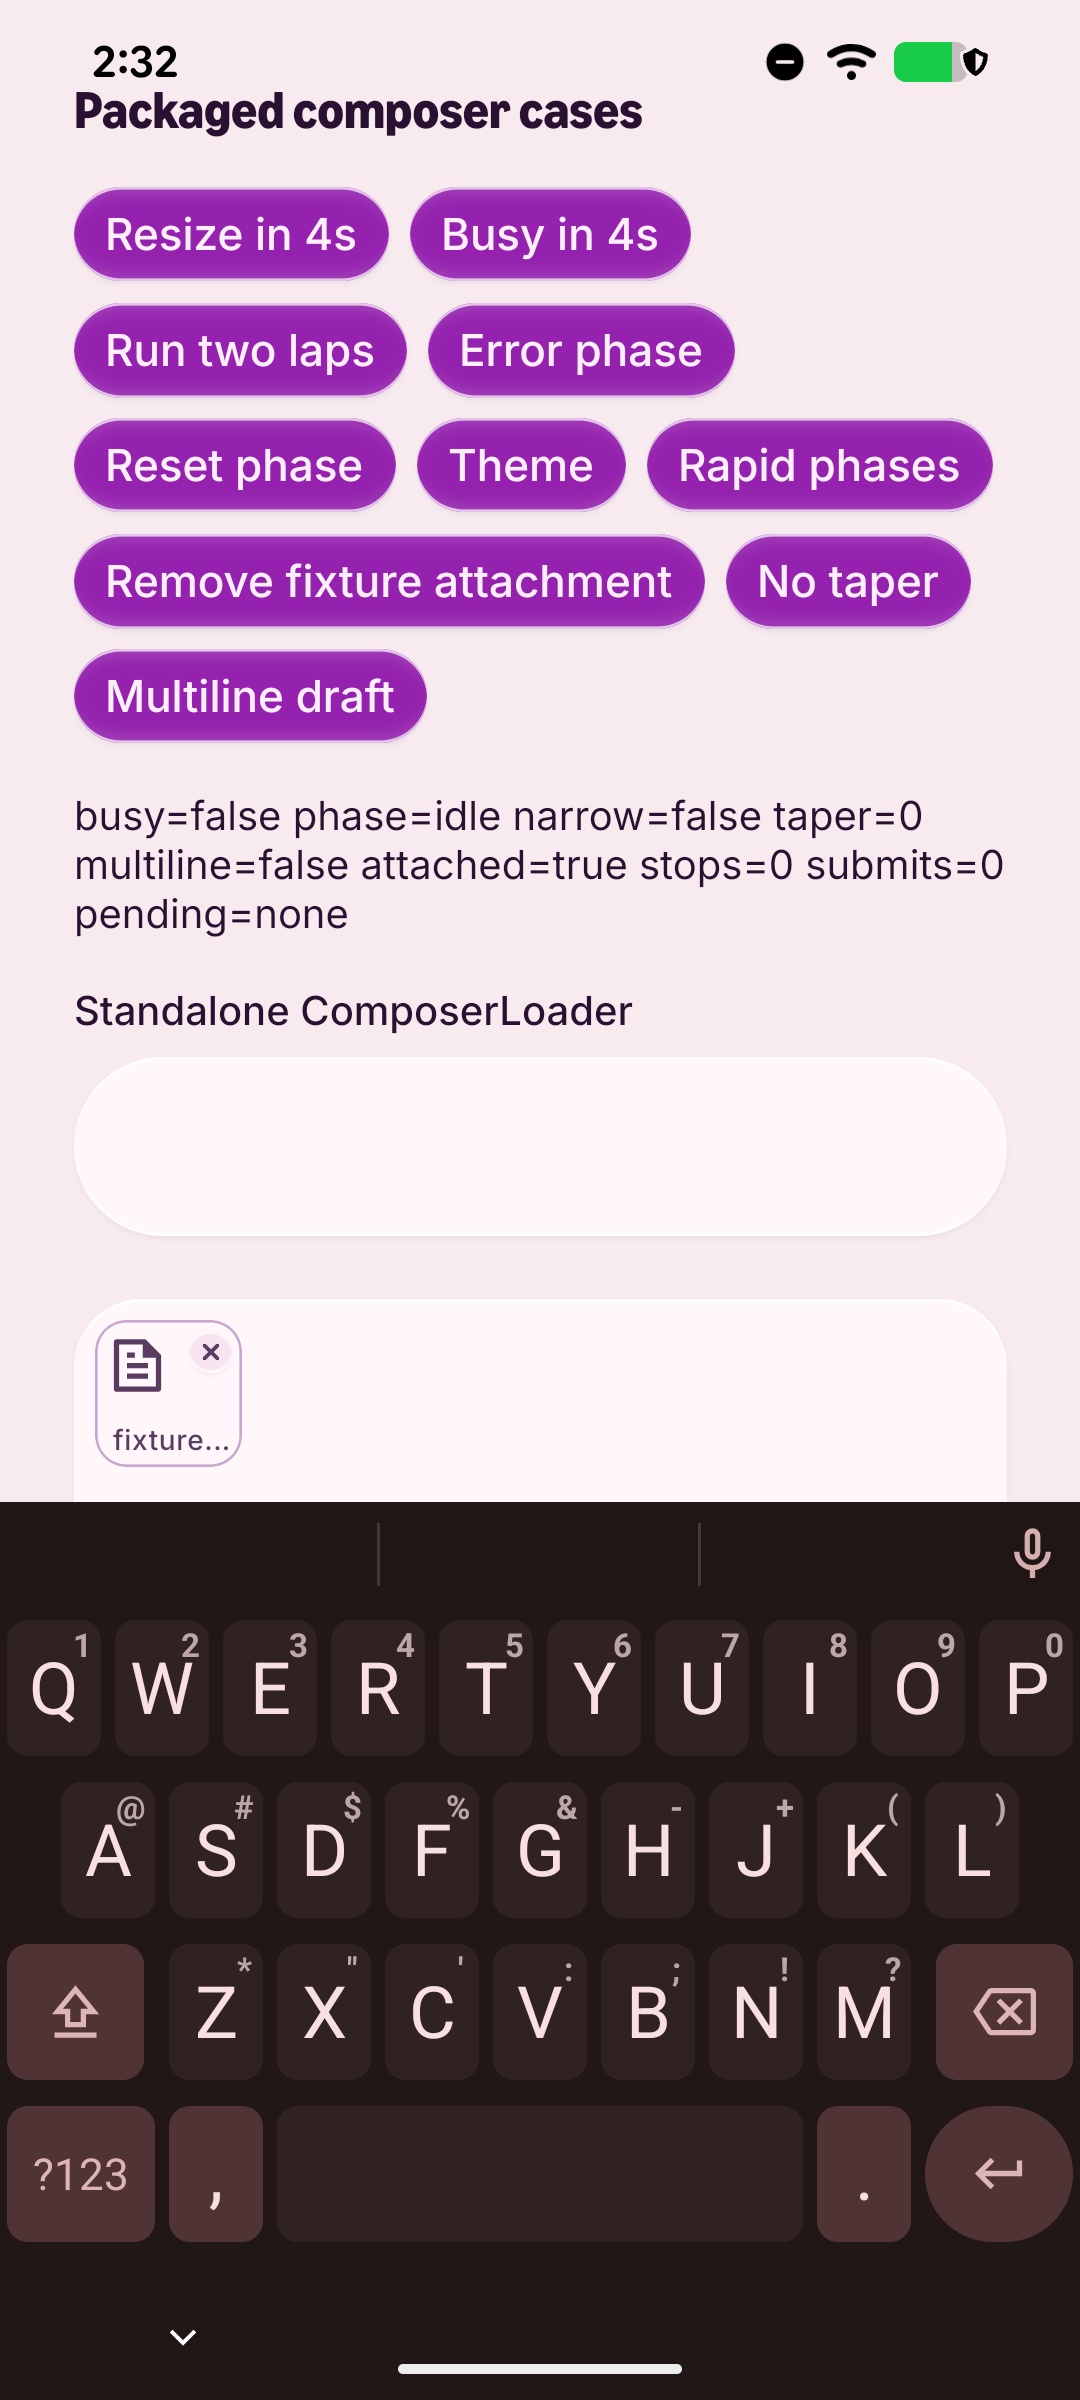
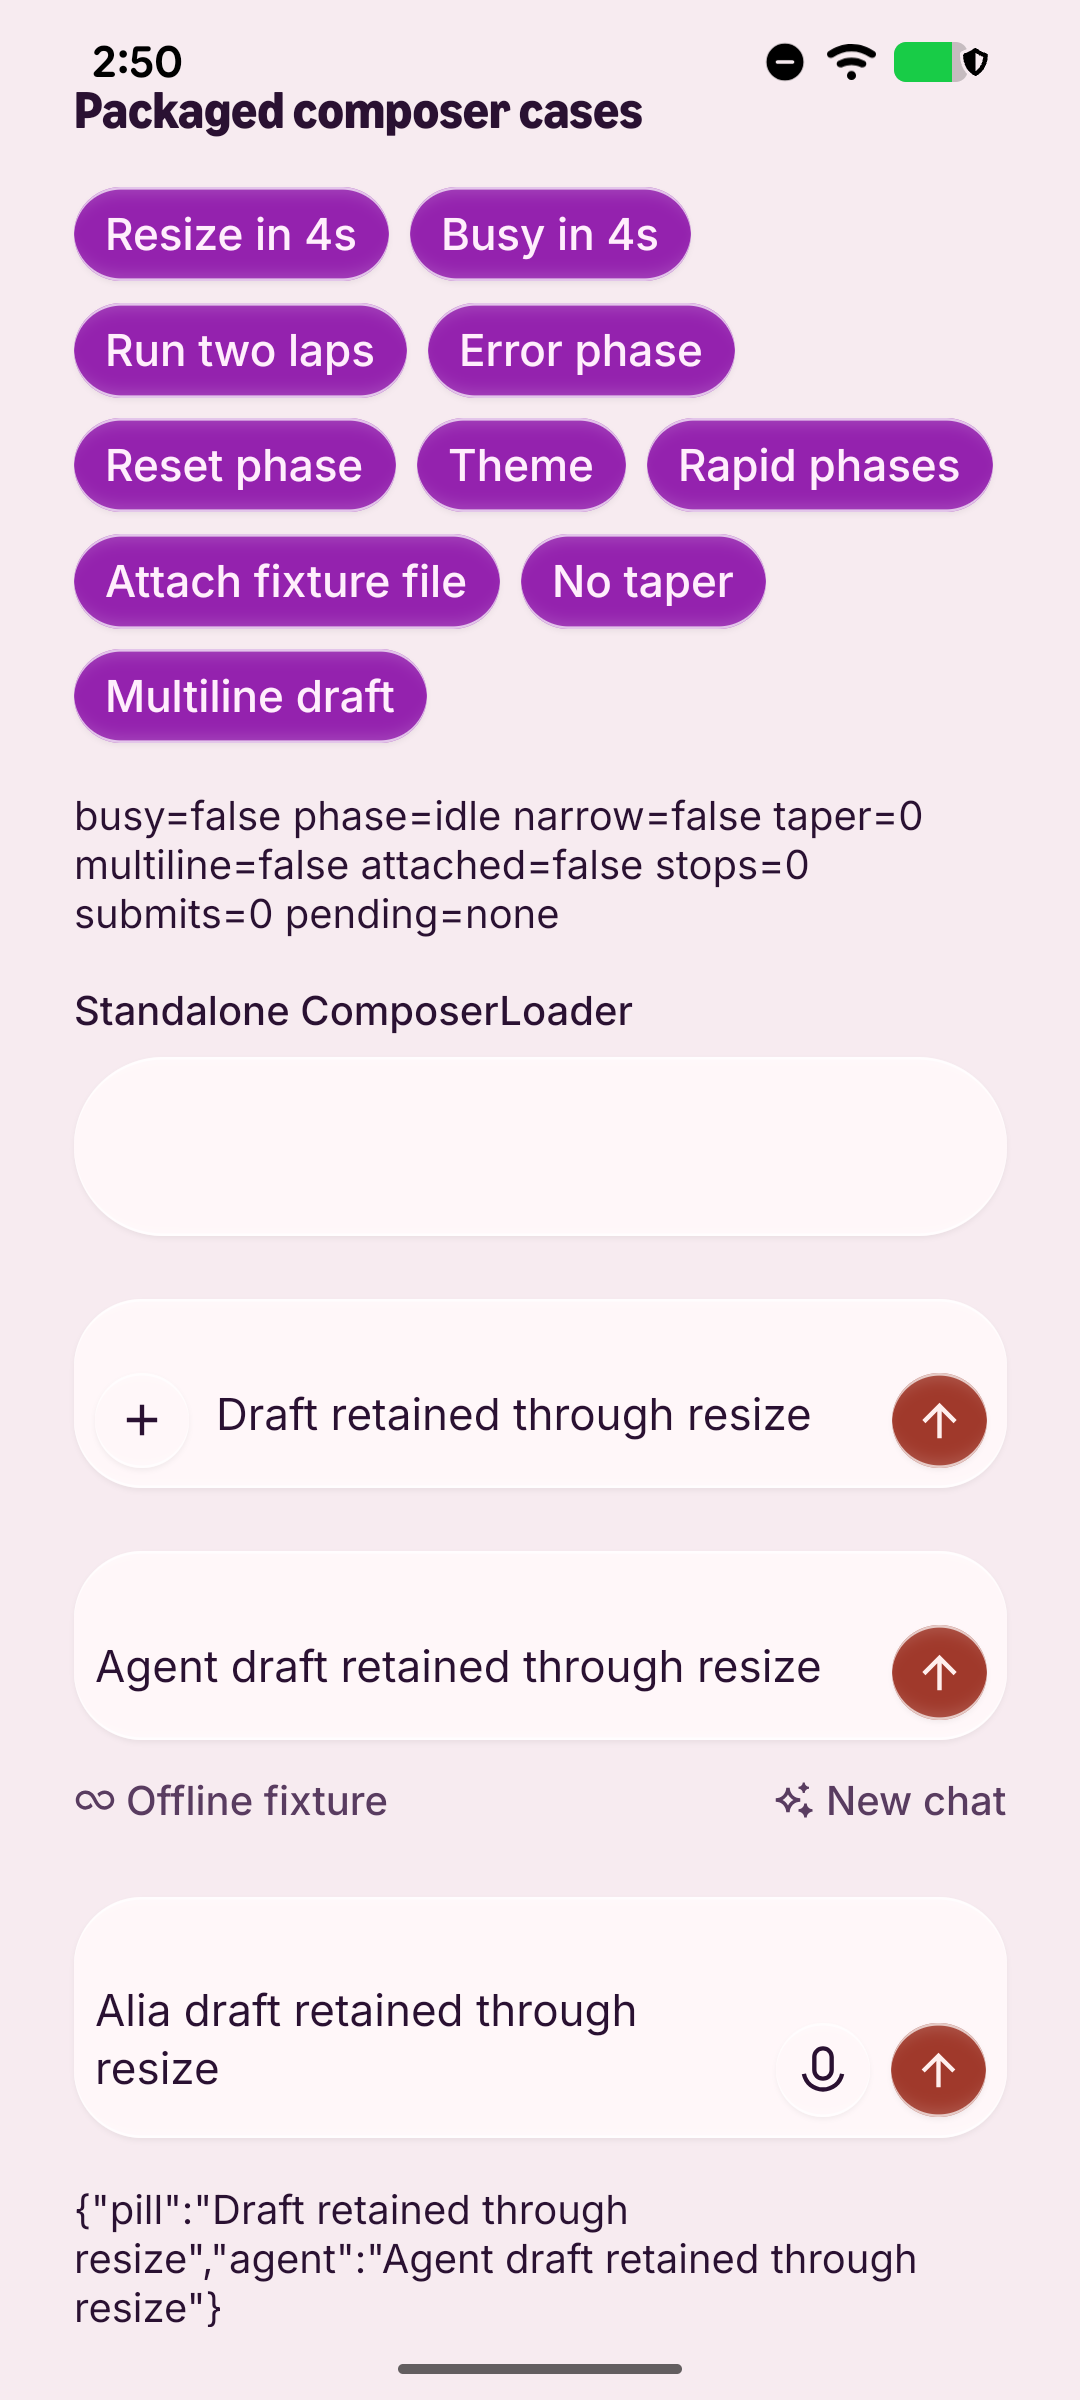
docs: refine Pixel 8a composer interaction evidence

diff --git a/scripts/loader-package-lab/ComposerCases.tsx b/scripts/loader-package-lab/ComposerCases.tsx
@@ -174,10 +174,7 @@ export function ComposerCases({ onToggleMode }: { onToggleMode: () => void }) {
             >
               Rapid phases
             </Button>
-            <Button
-              testID="cases-attachment"
-              onPress={() => setAttached((value) => !value)}
-            >
+            <Button testID="cases-attachment" onPress={() => setAttached((value) => !value)}>
               {attached ? 'Remove fixture attachment' : 'Attach fixture file'}
             </Button>
             <Button

diff --git a/docs/audits/issue-663/composer-loader-published-18.4.0-pixel8a-interactions-2026-11-10/README.md b/docs/audits/issue-663/composer-loader-published-18.4.0-pixel8a-interactions-2026-11-10/README.md
@@ -2,6 +2,6 @@
 
 Date: 2026-11-10. Package: published `@oxy.so/bloom@18.4.0`, verified against npm integrity `sha512-XLC+0q97VKQVnxzjJ57ZdSRV8JXX2S4IC/pbYqpNvHHR5yTht/FBOApdhD4FwlnVA07lmsPXoI/3dLXZtePGoA==`. `attestation.json` binds the release APK to the installed package sources and native DEX marker. The isolated package lab APK denies network access. Device: Pixel 8a, serial `43221JEKB12200`, Android API 36, ARM64, 1080×2400.
 
-The fixture used real Bloom `ComposerPill`, `AgentChatComposer`, and the published composer add menu. `attachment.png` shows the fixture document tile in the composer after a physical tap. `add-menu-open.png` shows the native add menu open over the composer; selecting its row from an empty attachment state dismissed it and changed the fixture to `attached=true` (`add-menu-open.xml`, `add-menu-selected.xml`). The final APK's later menu capture shows the sheet over a dark/blank backing even though the menu row and callback remain in UIAutomator and a prior capture showed the composer behind the sheet; both observations are retained for investigation. `dark-theme-with-attachment.png` shows a live light-to-dark theme change with a multiline draft and attachment retained. `theme-keyboard-with-selection.png` and `input-probe.log` show the theme switch while Gboard was visible and the complete draft selected; native input identity, text, focus and selection `[0,29]` were unchanged after the switch. A rapid-phase tap reached streaming/Stop and returned to idle. `rapid-phase-streaming-stop.png` and `rapid-phase-idle-keyboard.png` are valid consecutive frames from the final APK. They are interaction observations, not performance measurements. Exact results and limits are in `interaction-results.json`.
+The fixture used real Bloom `ComposerPill`, `AgentChatComposer`, and the published composer add menu. `attachment.png` shows the fixture document tile in the composer after a physical tap. `add-menu-open.png` shows the native add menu open over the composer; selecting its row from an empty attachment state dismissed it and changed the fixture to `attached=true` (`add-menu-open.xml`, `add-menu-selected.xml`). The final APK menu capture shows the sheet over the dimmed composer background. Selecting its row from an empty attachment state dismissed the sheet and changed the fixture to `attached=true`. `dark-theme-with-attachment.png` shows a live light-to-dark theme change with a multiline draft and attachment retained. `theme-keyboard-with-selection.png` and `input-probe.log` show the theme switch while Gboard was visible and the complete draft selected; native input identity, text, focus and selection `[0,29]` were unchanged after the switch. A rapid-phase tap was captured immediately at `streaming` with `busy=true` and Stop controls visible; the next capture was already `idle`. The intermediate phases were not captured in this pass. Keyboard-visible captures scroll the containing Screen to the composer, moving upper fixture controls out of view. They are interaction observations, not performance measurements. Exact results and limits are in `interaction-results.json`.
 
-The prior published-package run remains the full automated evidence for draft, focus/caret, resize, busy/Stop, typing after Stop and rotation with the keyboard visible: [composer-loader-published-18.4.0-pixel8a-2026-11-10](../composer-loader-published-18.4.0-pixel8a-2026-11-10/README.md). This follow-up's broader replay did not complete: an `adb exec-out screencap` call stalled while the script moved to the second composer owner, so it was interrupted. A few separate captures were blank while UIAutomator still reported the scene; a later timed rapid-phase capture produced valid streaming and idle frames. `typecheck.json` records the three remaining type errors from the separate installed `@oxy.so/services` package after removing an obsolete prop from the Alia fixture. No broad acceptance checkbox is marked from this follow-up. Closing the route during fade-out and preservation across every state remain unverified; iPhone testing is deferred by the user.
+The prior published-package run remains the full automated evidence for draft, focus/caret, resize, busy/Stop, typing after Stop and rotation with the keyboard visible: [composer-loader-published-18.4.0-pixel8a-2026-11-10](../composer-loader-published-18.4.0-pixel8a-2026-11-10/README.md). This follow-up's broader replay did not complete: an `adb exec-out screencap` call stalled while the script moved to the second composer owner, so it was interrupted. Keyboard-visible captures show the Screen scrolled to the composer while upper fixture controls are outside the viewport. This is expected viewport movement, not a blank capture. `typecheck.json` records the three remaining type errors from the separate installed `@oxy.so/services` package after removing an obsolete prop from the Alia fixture. No broad acceptance checkbox is marked from this follow-up. Closing the route during fade-out and preservation across every state remain unverified; iPhone testing is deferred by the user.
